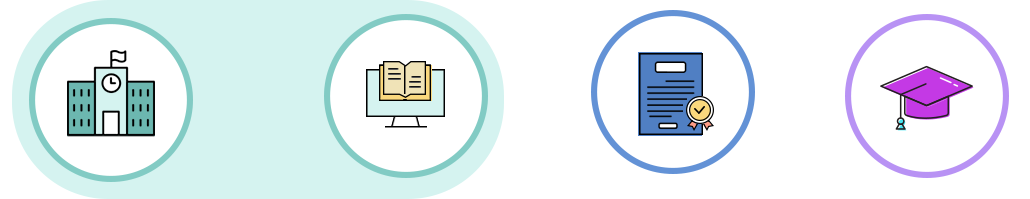
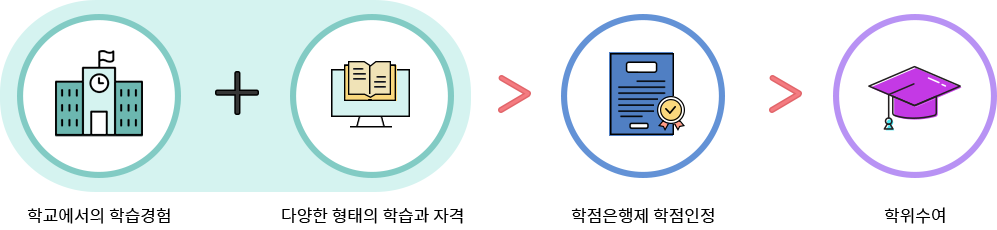
1

diff --git a/MOCA_HOME/WebContent/detailPage1.html b/MOCA_HOME/WebContent/detailPage1.html
@@ -177,10 +177,25 @@
 		<p>
 			학점은행제는 「학점인정 등에 관한 법률」에 의거하여 학교에서 뿐만 아니라 학교 밖에서 이루어지는 다양한 형태의 학습 및 자격을 학점으로 인정받을 수 있도록 하고,학점이 누적되어 일정 기준을 충족하면 학위취득을 가능하게 함으로써 궁극적으로 열린 학습사회, 평생학습사회를 구현하기 위한 제도입니다.
 		</p>
-		<div class="bgHak"></div>
-	</div>
-	<div class="detailImg">
-		<img class="loadMapImg" src="./images/d1/001.png">
+		<div class="bgHak">
+		</div>
+		<table>
+			<tr>
+				<th>학점인정 등에 관한 법률 제1조(목적)</th>
+				<td>
+					이 법은 평가인정을 받은 학습과정을 마친 자 등에게 학점인정을 통하여 학력인정과 학위취득의 기회를 줌으로써
+					평생교육의 이념을 구현하고 개인의 자아실현과 국가사회의 발전에 이바지함을 목적으로 한다.
+				</td>
+			</tr>
+			<tr ><td colspan="2" style="height:1px; background:#000"></td></tr>
+			<tr>
+				<th>학점인정 등에 관한 법률 제8조제1항(학력인정)</th>
+				<td>
+					제7조에 따라 일정한 학점을 인정받은 자는 「고등교육법」 제2조제1호에 따른 대학이나 같은 법 제2조제4호에 따른
+					전문대학을 졸업한 자와 같은 수준 이상의 학력이 있는 것으로 인정한다.
+				</td>
+			</tr>		
+		</table>
 	</div>
 	<div class="detailArea">
 		<div class="detailBox subject">

diff --git a/MOCA_HOME/WebContent/index.html b/MOCA_HOME/WebContent/index.html
@@ -122,11 +122,6 @@
 		<span class="top-btn__arrow"></span> <span class="top-btn__txt">맨
 			위로 이동</span>
 	</div>
-
-
-
-
-
 	<div class="navi">
 		<ul class="naviUl">
 			<li class="fNaviLi">
@@ -185,9 +180,9 @@
 		</div>
 	</div>
 	<div class="CheckLine" style="margin-top: -5px;"></div>
-	<div class="loadMap">
+ 	<div class="loadMap">
 		<div class="loadMapImgDiv">
-			<img class="loadMapImg" src="./images/Process-001.png">
+			<img class="loadMapImg" src="./images/smartplan.png">
 		</div>
 	</div>
 	<div class="processArea">
